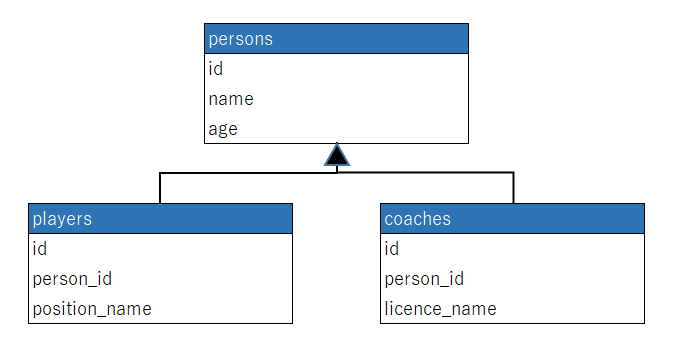
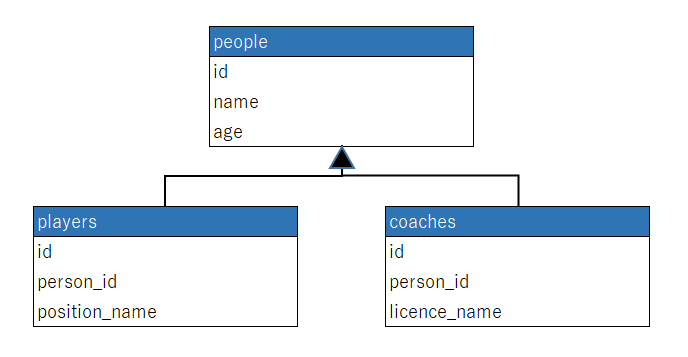
Modify to `persons table` to `people table` in README.md

Changed region(s): [[0.031, 0.058, 0.9616, 0.9565], [0.4032, 0.8986, 0.4343, 0.9565]]

diff --git a/README.md b/README.md
@@ -12,13 +12,13 @@ For Example, Suppose you want to describe the following class structure on datab
 
 But STI has a disadvantage that it is not possible to represent one record as an object of two different models at the same time.
 
-#### persons talbe (STI)
+#### people talbe (STI)
 | id | type | name      | birth_year | position_name   | licence_name |
 |----|------|-----------|------------|-----------------|---------------|
 | 1  |Player| Ryan Giggs|  1973      | midfielder      |               |
 | 2  |Coach | Ryan Giggs|  1973      |                 | UEFA Pro      |
 
-As mentiond above, for expressing two `Person`'s subclasses objects, which are `Player` and `Coach`, you have to insert two records into persons table in STI.
+As mentiond above, for expressing two `Person`'s subclasses objects, which are `Player` and `Coach`, you have to insert two records into people table in STI.
 It is cursed that the contents of `name` and `birth_year` columns are duplicated and `position_name` and `licence_name` columns are sparse.
 
 CTI can solve these problems by using multiple related tables like shown below, literally for class table inheritance.
@@ -66,7 +66,7 @@ player.save
 ```
 So that his data is automatically split into two related tables.
 ```bash
-MariaDB> SELECT * FROM persons limit 1;
+MariaDB> SELECT * FROM people limit 1;
 +----+----------------+------------+
 | id | name           | birth_year |
 +----+----------------+------------+
